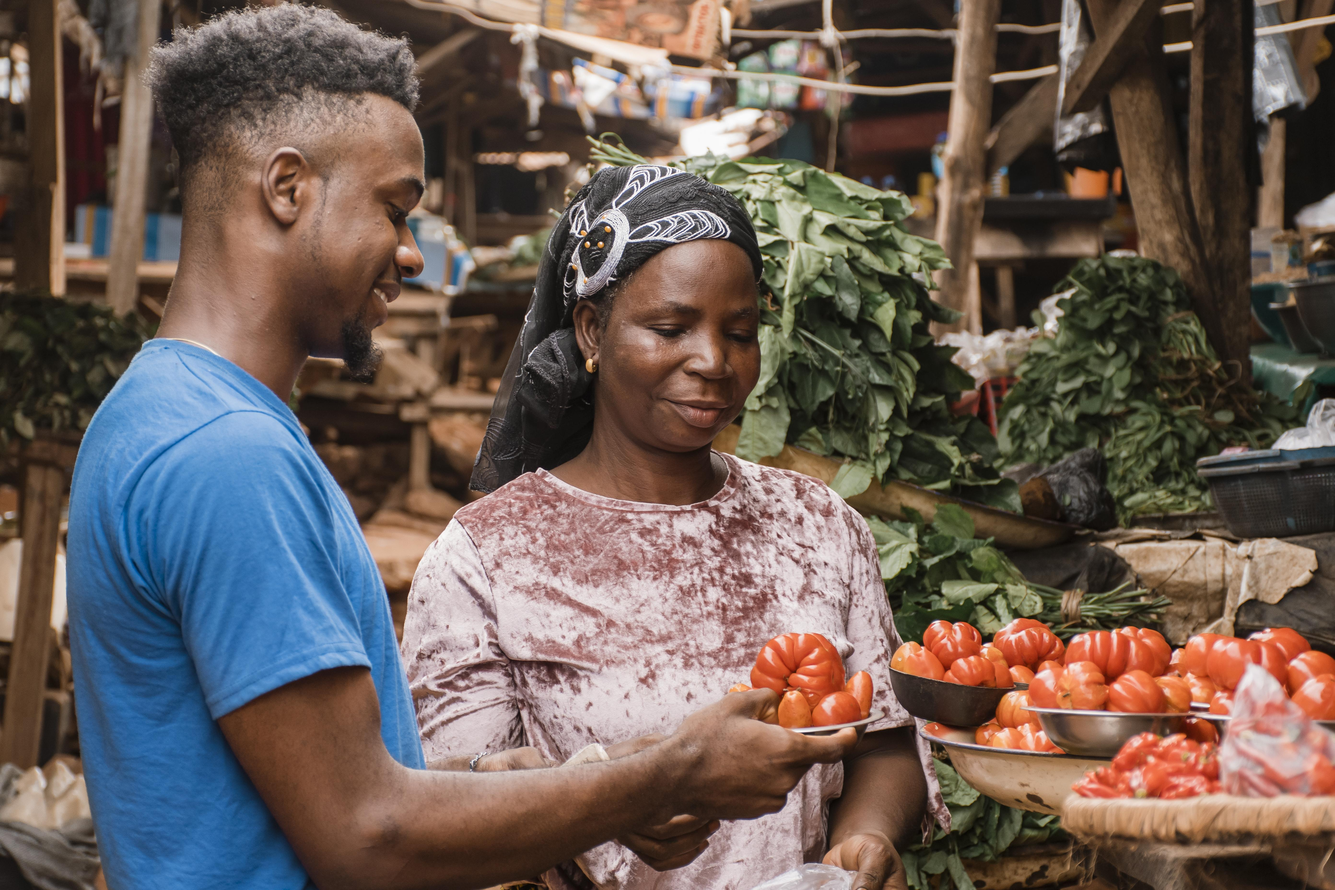
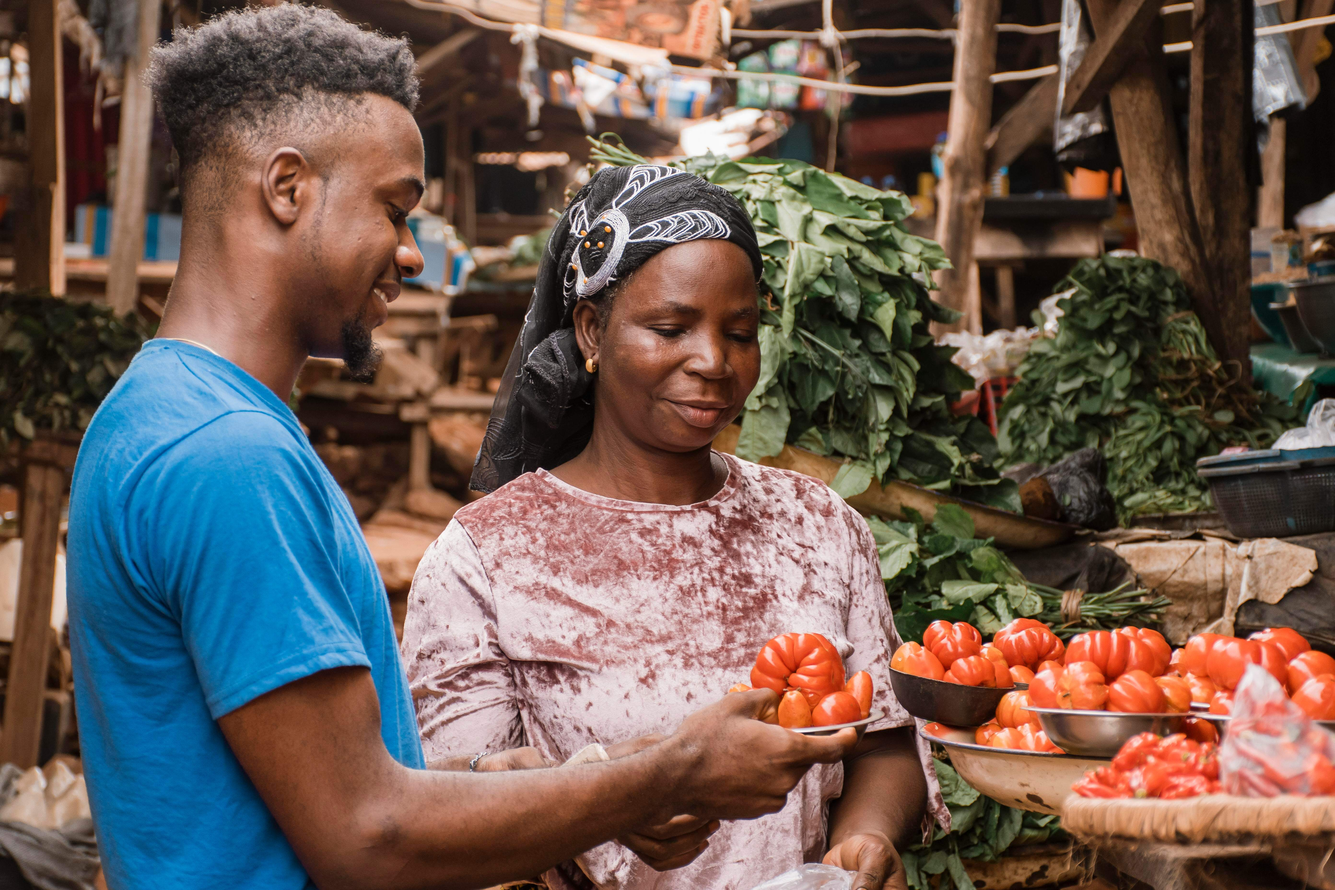
chore: replace images with compressed ones

diff --git a/data/data.ts b/data/data.ts
@@ -100,7 +100,7 @@ export const AnalyticsData: AnalyticsDataProps[] = [
 
 export const beneficiaries: beneficiaryProps[] = [
   {
-    image: "/images/dark.jpg",
+    image: "/images/beneficiary.jpg",
     category: " TVET",
     name: "John  Doe",
     message:
